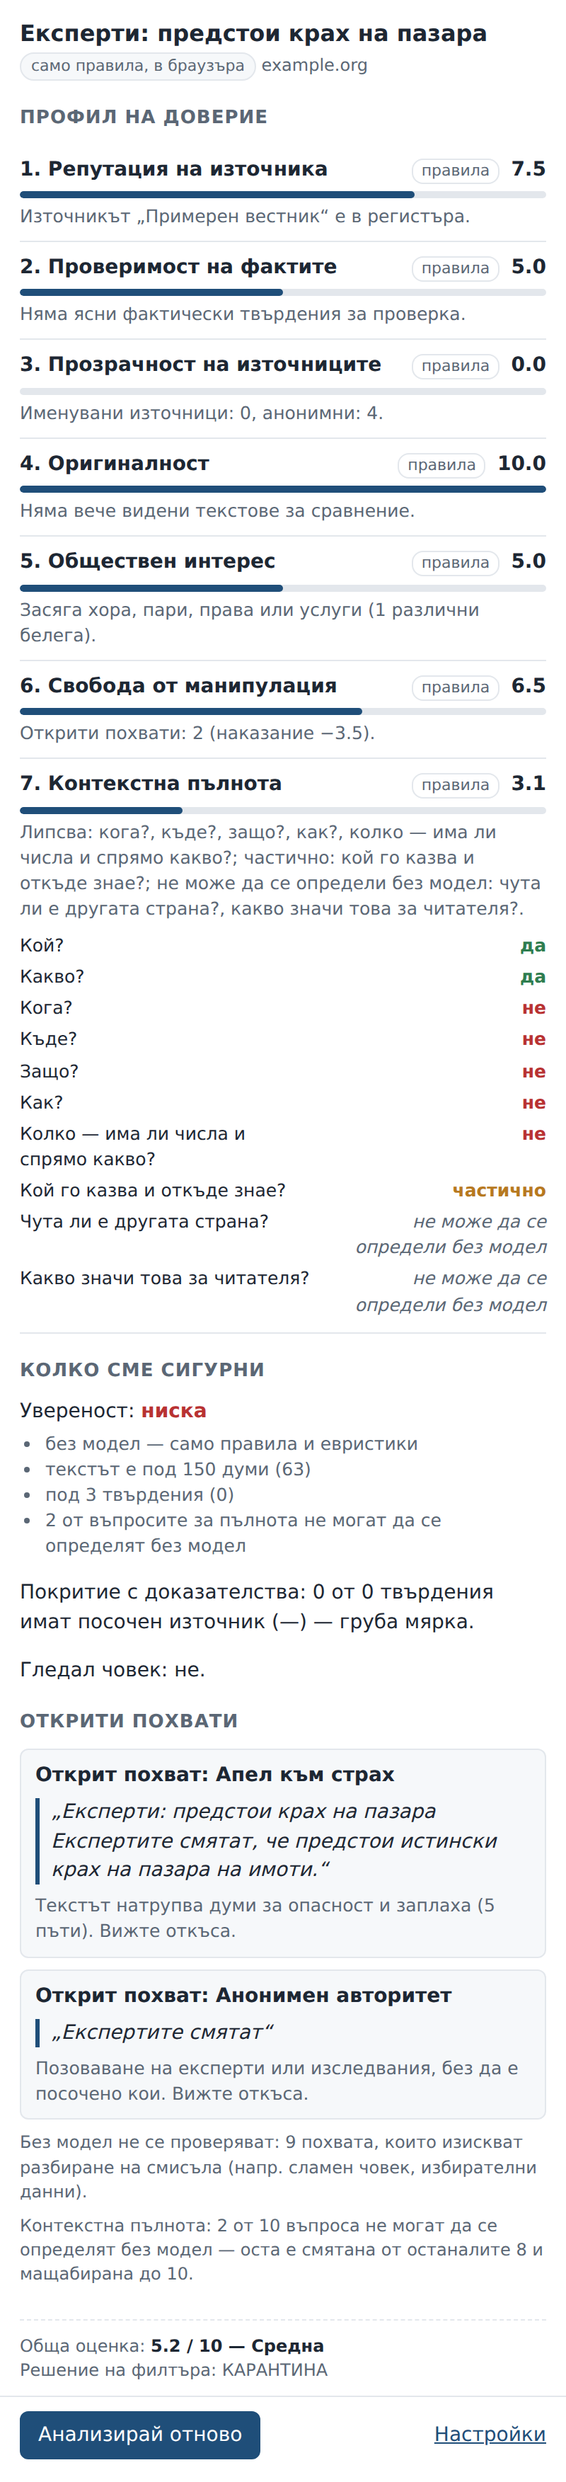
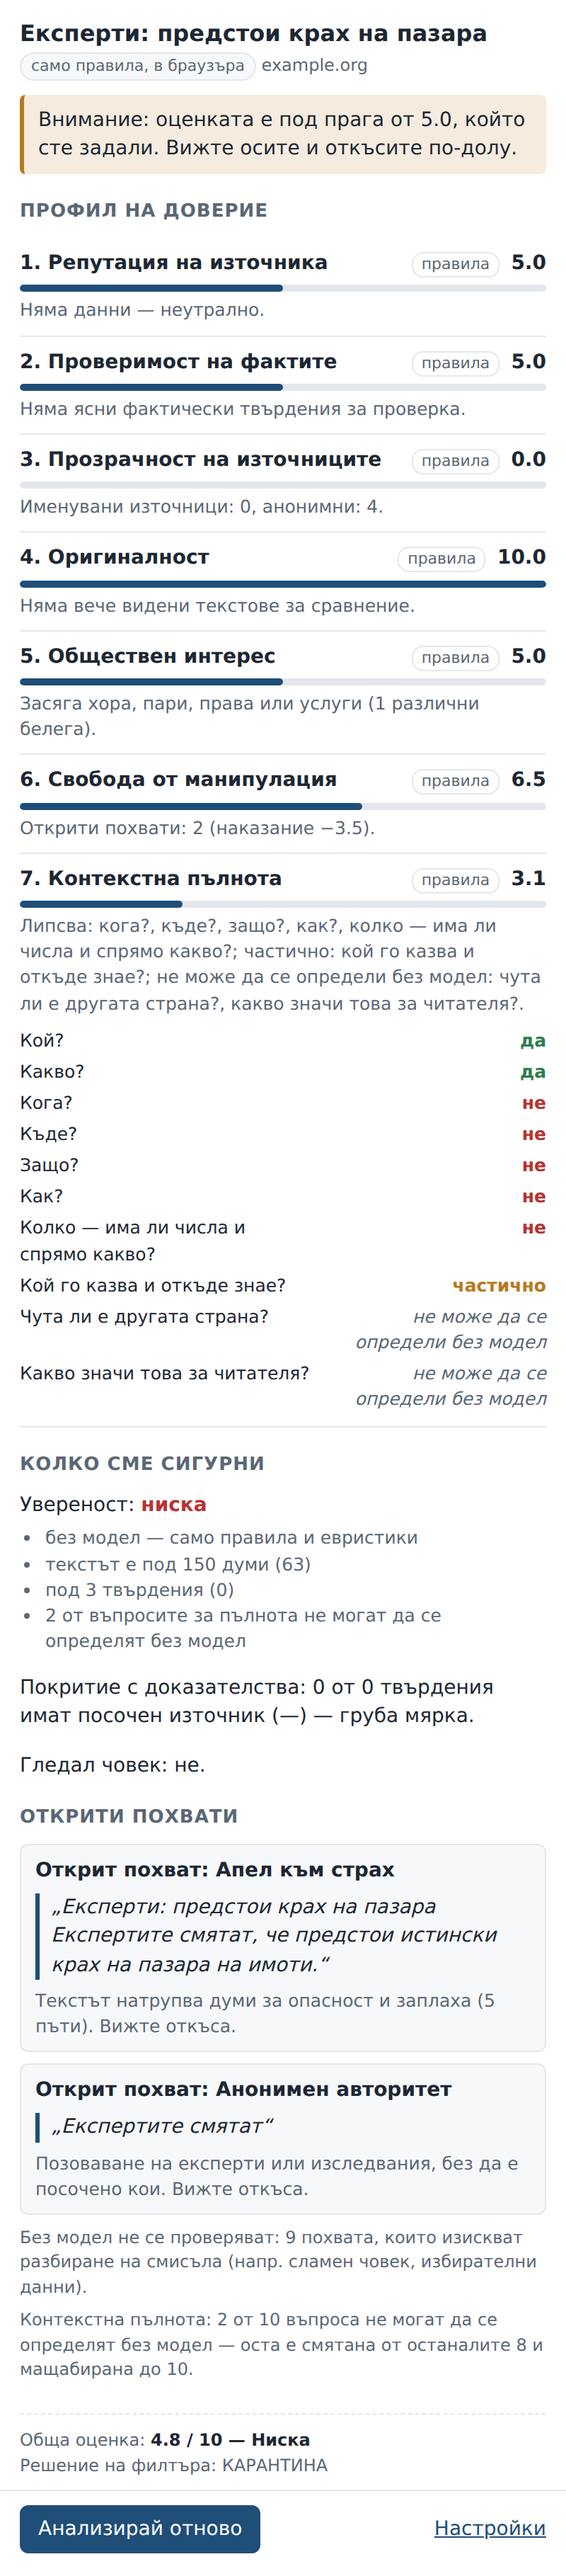
ЛНА: без регистър на източниците в браузъра — ос 1 е неутрално 5.0 за всички
Разширението носеше примерния регистър от doverie/config.example.json.
Вече gen_pravila.py не изнася никакъв регистър, а двигателят дава на ос 1
винаги 5.0 с „Няма данни — неутрално.“. Частният регистър се ползва само в
пълната оценка от doverie serve на GX10; публичен — едва след правна проверка
и решение. Тестове: ос 1 е 5.0 за всеки сайт, в pravila.js няма регистър.
README — нов раздел „Репутация на източника“; снимките са наново направени.

Changed region(s): [[0.0312, 0.0, 0.9688, 0.9949], [0.7812, 0.9638, 0.9688, 0.9949]]

diff --git a/apps/lna/tests/dvigatel.test.js b/apps/lna/tests/dvigatel.test.js
@@ -41,9 +41,23 @@ describe('профилът', () => {
     const neopr = r.profil.osi['7'].vaprosi.filter((v) => v.otgovor === 'не може да се определи без модел');
     expect(neopr.map((v) => v.kluch)).toEqual(['drugata_strana', 'znachenie']);
   });
-  test('източникът е домейнът на страницата', () => {
+  test('източникът е домейнът на страницата, но ос 1 е неутрална — няма регистър в браузъра', () => {
     expect(r.iztochnik.domain).toBe('example.org');
-    expect(r.profil.osi['1'].zashto).toContain('Примерен вестник');
+    expect(r.profil.osi['1'].ocenka).toBe(5.0);
+    expect(r.profil.osi['1'].zashto).toBe('Няма данни — неутрално.');
+  });
+
+  test('ос 1 е 5.0 за всеки сайт', () => {
+    for (const url of ['https://www.example.org/a', 'https://example.net/b', 'https://nyakoy.example.com/', null]) {
+      const o1 = D.ocenka(s.tekst, url).profil.osi['1'];
+      expect([url, o1.ocenka, o1.zashto]).toEqual([url, 5.0, 'Няма данни — неутрално.']);
+    }
+  });
+
+  test('в правилата няма регистър на източниците', () => {
+    const src = require('fs').readFileSync(require('path').join(__dirname, '..', 'src', 'pravila.js'), 'utf8');
+    expect(src).not.toMatch(/registar|rep_score|Примерен вестник/);
+    expect(P.reputaciya_v_brauzara).toEqual({ ocenka: 5.0, zashto: 'Няма данни — неутрално.' });
   });
 });
 

diff --git a/apps/lna/src/dvigatel.js b/apps/lna/src/dvigatel.js
@@ -165,16 +165,10 @@
     return host.indexOf('www.') === 0 ? host.slice(4) : host;
   }
 
-  function reputaciya(iztochnik) {
-    var d = domain(iztochnik);
-    for (var i = 0; i < P.registar_iztochnici.length; i++) {
-      var z = P.registar_iztochnici[i];
-      if (d && (d === z.domain || d.slice(-(z.domain.length + 1)) === '.' + z.domain)) {
-        return [ogranichi(z.rep_score), 'Източникът „' + (z.ime || d) + '“ е в регистъра.'];
-      }
-    }
-    if (!d) return [P.rep_neizvesten, 'Източникът не е посочен — неутрална оценка.'];
-    return [P.rep_neizvesten, 'Източникът не е в регистъра — неутрална оценка.'];
+  // В браузъра няма регистър на източниците: ос 1 е неутрална за всички сайтове.
+  // Частният регистър се ползва само в пълната оценка от doverie serve на GX10.
+  function reputaciya() {
+    return [P.reputaciya_v_brauzara.ocenka, P.reputaciya_v_brauzara.zashto];
   }
 
   function tvardeniya(tekst) {
@@ -314,7 +308,7 @@
     var belezhki = [];
 
     var sme = {};
-    sme.reputaciya = reputaciya(iztochnik);
+    sme.reputaciya = reputaciya();
     sme.originalnost = originalnost();
     sme.manipulaciya = manipulaciya(namereni);
     sme.proverimost = proverimost(tekst);

diff --git a/apps/lna/src/pravila.js b/apps/lna/src/pravila.js
@@ -362,19 +362,10 @@
         "vapros": "Какво значи това за читателя?"
       }
     ],
-    "rep_neizvesten": 5.0,
-    "registar_iztochnici": [
-      {
-        "domain": "example.org",
-        "ime": "Примерен вестник",
-        "rep_score": 7.5
-      },
-      {
-        "domain": "example.net",
-        "ime": "Примерен портал",
-        "rep_score": 4.0
-      }
-    ],
+    "reputaciya_v_brauzara": {
+      "ocenka": 5.0,
+      "zashto": "Няма данни — неутрално."
+    },
     "otgovori": {
       "DA": "да",
       "CHASTICHNO": "частично",

diff --git a/apps/lna/scripts/gen_pravila.py b/apps/lna/scripts/gen_pravila.py
@@ -120,6 +120,10 @@ IZRAZI = {
 }
 SPISACI = {"DILEMA": pohvati.DILEMA, "ANONIMEN": pohvati.ANONIMEN}
 
+# Ос 1 в браузъра: без регистър на източниците — неутрално за всички. Частният регистър се ползва само когато
+# пълната оценка идва от doverie serve на GX10. Публичен регистър — едва след правна проверка и решение на Галин.
+REPUTACIYA_V_BRAUZARA = {"ocenka": 5.0, "zashto": "Няма данни — неутрално."}
+
 
 def pravila(cfg):
     return {
@@ -136,8 +140,7 @@ def pravila(cfg):
         "reshenie": cfg["reshenie"],
         "uverenost": cfg["uverenost"],
         "palnota_vaprosi": cfg["palnota_vaprosi"],
-        "rep_neizvesten": cfg.get("rep_neizvesten", 5.0),
-        "registar_iztochnici": cfg.get("registar_iztochnici") or [],
+        "reputaciya_v_brauzara": REPUTACIYA_V_BRAUZARA,
         "otgovori": {"DA": osi.DA, "CHASTICHNO": osi.CHASTICHNO, "NE": osi.NE, "NEOPREDELIMO": osi.NEOPREDELIMO},
         "chovek": list(CHOVEK),
     }
@@ -171,7 +174,12 @@ def tekstove():
 def ocakvano(cfg):
     sluchai = []
     for ime, t in tekstove():
-        rez = ocenka(t, cfg)
+        rez = ocenka(t, cfg)  # без източник → ос 1 е неутралната стойност от config
+        o1 = rez["profil"]["osi"]["1"]
+        if o1["kluch"] != "reputaciya" or o1["ocenka"] != REPUTACIYA_V_BRAUZARA["ocenka"]:
+            raise SystemExit("ос 1 в doverie без източник не е %.1f — неутралната стойност в браузъра е различна"
+                             % REPUTACIYA_V_BRAUZARA["ocenka"])
+        o1["zashto"] = REPUTACIYA_V_BRAUZARA["zashto"]  # в браузъра текстът е „няма данни“
         norm = tekst.normalizirai(t)
         sluchai.append({
             "ime": ime,

diff --git a/apps/lna/README.md b/apps/lna/README.md
@@ -44,6 +44,16 @@ python3 -m doverie serve --port 8765 --bez-model   # същият път, сам
 В настройките въведете `http://127.0.0.1:8765` и потвърдете достъпа. Ако машината е заета или адресът не отговаря,
 лентата показва оценката само с правилата и бележка защо.
 
+## Репутация на източника (ос 1)
+
+В браузъра **няма регистър на източниците**. Ос 1 е неутрално **5.0 за всеки сайт**, с надпис „Няма данни — неутрално.“
+Така разширението не носи и не показва ничия оценка на медия или сайт.
+
+- **Частният регистър** се ползва само когато пълната оценка идва от `doverie serve` на GX10. Тогава ос 1 е тази от
+  сървъра и лентата я показва като „пълна оценка“.
+- **Публичен регистър** може да има едва след правна проверка и решение на Галин. Дотогава `gen_pravila.py` не
+  изнася никакъв регистър, а тест проверява, че в `src/pravila.js` няма такъв.
+
 ## Поверителност
 
 - Анализът тръгва **само при натискане** на иконата. Разширението не чете страници само.
@@ -91,6 +101,7 @@ python3 apps/lna/scripts/gen_pravila.py
 ## Какво НЕ прави
 
 - Не анализира страници само — само при натискане.
+- Не оценява медии и сайтове в браузъра. Ос 1 е неутрална за всички; регистърът е частен и живее само на GX10.
 - Не праща нищо никъде, ако не сте въвели адрес. Не праща към никого освен към въведения адрес.
 - Не казва дали новината е вярна. Описва текста: оси, откъси, какво липсва.
 - Без модел не търси 9 от похватите, които изискват разбиране на смисъла, и не отговаря на „чута ли е другата
